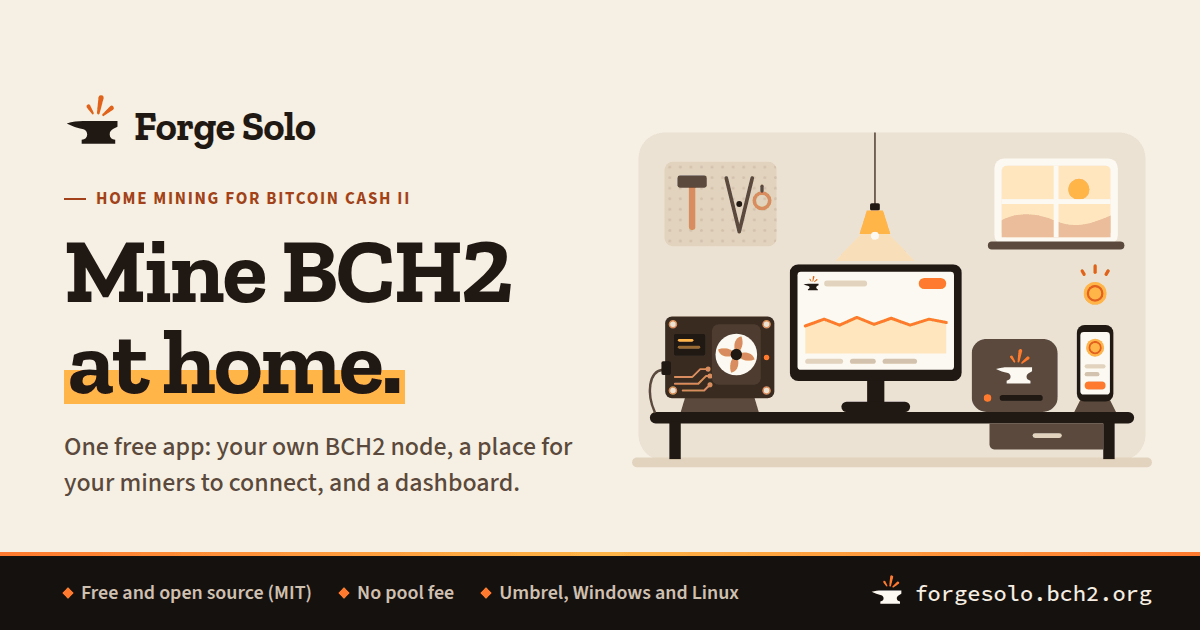
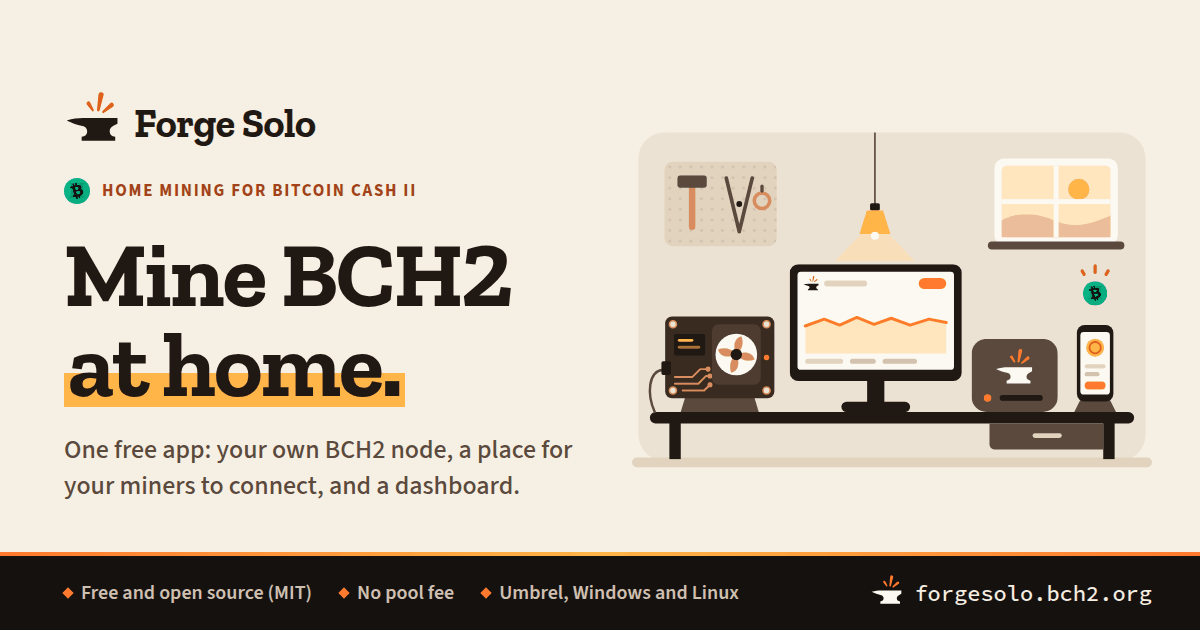
Forge Solo's website: the BCH2 coin
The Bitcoin Cash II coin, site/img/bch2-coin.svg: bch2_logo.svg from
BitcoincashII/BCH2-Graphics at d8f44f8, byte for byte. It stands, small,
where the words mean BCH2: 20 px before the hero's tag, "Home mining for
Bitcoin Cash II", in place of the tag's rule; as the reward arriving at
the phone in the hero drawing and in the "Your BCH2 address" card; 1 em
before "What is Bitcoin Cash II (BCH2)?" on the questions page; and 20 px
before the footer's "Bitcoin Cash II home miner", under the anvil, its
words under the name. The drawings show the file with SVG <image>, so one
file serves every place, under the policy's img-src 'self'.

Beside its words its alt is empty. The hero drawing's description says
the reward arrives as a BCH2 coin (a new key, fs_hero_art_coin), and so
does og:image:alt. img/og.png is made again from the page, with the coin
before the tag and in the desk drawing.

The anvil and sparks stay Forge Solo's mark and the site stays paper and
ember: the coin's greens are its own. The stylesheet is ?v=6 on every
page. README.md records where the coin comes from, BRAND.md where it
stands and why.

diff --git a/site/index.html b/site/index.html
@@ -12,7 +12,7 @@
     <link rel="apple-touch-icon" href="/img/apple-touch-icon.png">
     <link rel="preload" href="/fonts/zilla-slab-700.woff2" as="font" type="font/woff2" crossorigin>
     <link rel="preload" href="/fonts/source-sans-3-wght.woff2" as="font" type="font/woff2" crossorigin>
-    <link rel="stylesheet" href="/css/site.css?v=5">
+    <link rel="stylesheet" href="/css/site.css?v=6">
     <meta property="og:type" content="website">
     <meta property="og:site_name" content="Bitcoin Cash II">
     <meta property="og:title" content="Forge Solo: mine BCH2 at home, on your own node">
@@ -21,7 +21,7 @@
     <meta property="og:image" content="https://forgesolo.bch2.org/img/og.png">
     <meta property="og:image:width" content="1200">
     <meta property="og:image:height" content="630">
-    <meta property="og:image:alt" content="Forge Solo: mine BCH2 at home. A drawing of a desk with a small miner, a computer running Forge Solo and a phone. Umbrel, Windows and Linux.">
+    <meta property="og:image:alt" content="Forge Solo: mine BCH2 at home. A drawing of a desk with a small miner, a computer running Forge Solo and a phone, where a BCH2 coin arrives. Umbrel, Windows and Linux.">
     <meta name="twitter:card" content="summary_large_image">
     <meta name="twitter:site" content="@BitcoincashII">
     <meta name="twitter:title" content="Forge Solo: mine BCH2 at home, on your own node">
@@ -145,7 +145,7 @@
         <section class="hero" aria-labelledby="hero-title">
             <div class="wrap hero-grid">
                 <div class="hero-copy">
-                    <p class="tag" data-i18n="fs_hero_tag">Home mining for Bitcoin Cash II</p>
+                    <p class="tag tag-coin"><img class="coin" src="/img/bch2-coin.svg" width="20" height="20" alt=""><span data-i18n="fs_hero_tag">Home mining for Bitcoin Cash II</span></p>
                     <h1 id="hero-title" data-i18n="fs_hero_headline">Mine BCH2 <span class="hl">at&nbsp;home.</span></h1>
                     <p class="lede" data-i18n="fs_hero_summary">Forge Solo is one free app for mining Bitcoin Cash II (BCH2): your own <a class="term" href="/faq/#glossary-node">BCH2 node</a>, a place for your miners to connect, and a dashboard that shows how it’s going.</p>
                     <div class="cta">
@@ -162,7 +162,7 @@
                 <figure class="hero-art">
                     <div class="art-frame">
                     <svg viewBox="0 0 640 430" role="img" aria-labelledby="hero-art-title" focusable="false">
-                        <title id="hero-art-title" data-i18n="fs_hero_art">A desk with a small miner such as a Bitaxe (1), a computer that stays on, running Forge Solo with its dashboard on screen (2), and a phone with your wallet, where a reward arrives (3).</title>
+                        <title id="hero-art-title" data-i18n="fs_hero_art_coin">A desk with a small miner such as a Bitaxe (1), a computer that stays on, running Forge Solo with its dashboard on screen (2), and a phone with your wallet, where a reward arrives as a BCH2 coin (3).</title>
                         <defs>
                             <pattern id="peg" width="13" height="13" patternUnits="userSpaceOnUse" x="40" y="44"><circle class="f-rule" cx="6.5" cy="6.5" r="1.9"/></pattern>
                         </defs>
@@ -207,7 +207,7 @@
                             <rect class="f-emberdeep" x="568" y="170" width="4" height="12" rx="2"/>
                             <rect class="f-emberdeep" x="553" y="176" width="4" height="9" rx="2" transform="rotate(-30 555 180)"/>
                             <rect class="f-emberdeep" x="583" y="176" width="4" height="9" rx="2" transform="rotate(30 585 180)"/>
-                            <use href="#coin" x="555" y="191" width="30" height="30"/>
+                            <image href="/img/bch2-coin.svg" x="555" y="191" width="30" height="30"/>
                         </g>
                     </svg>
                     <span class="pin pin-1" aria-hidden="true"></span>
@@ -270,7 +270,7 @@
                                     <rect class="f-emberdeep" x="70" y="4" width="4" height="10" rx="2"/>
                                     <rect class="f-emberdeep" x="57" y="9" width="4" height="8" rx="2" transform="rotate(-30 59 13)"/>
                                     <rect class="f-emberdeep" x="83" y="9" width="4" height="8" rx="2" transform="rotate(30 85 13)"/>
-                                    <use href="#coin" x="59" y="20" width="26" height="26"/>
+                                    <image href="/img/bch2-coin.svg" x="59" y="20" width="26" height="26"/>
                                 </g>
                                 <use href="#phone" x="44" y="50" width="44" height="78"/>
                                 <!-- an address tag, tied to the wallet -->
@@ -562,7 +562,7 @@
                     <svg class="brand-mark" viewBox="0 0 64 64" aria-hidden="true" focusable="false"><use href="#mark" class="mark-on-dark"/></svg>
                     <span class="brand-name" data-i18n="fs_brand">Forge Solo</span>
                 </a>
-                <p class="foot-sub" data-i18n="fs_brand_sub">Bitcoin Cash II home miner</p>
+                <p class="foot-sub foot-coin"><img class="coin" src="/img/bch2-coin.svg" width="20" height="20" alt=""><span data-i18n="fs_brand_sub">Bitcoin Cash II home miner</span></p>
             </div>
             <div class="foot-text">
                 <p data-i18n="fs_footer_license">Forge Solo is free and open source, under the <a href="https://github.com/BitcoincashII/forge-solo/blob/main/LICENSE">MIT license</a>. <a href="https://github.com/BitcoincashII/forge-solo">Source on GitHub</a>.</p>

diff --git a/site/faq/index.html b/site/faq/index.html
@@ -12,7 +12,7 @@
     <link rel="apple-touch-icon" href="/img/apple-touch-icon.png">
     <link rel="preload" href="/fonts/zilla-slab-700.woff2" as="font" type="font/woff2" crossorigin>
     <link rel="preload" href="/fonts/source-sans-3-wght.woff2" as="font" type="font/woff2" crossorigin>
-    <link rel="stylesheet" href="/css/site.css?v=5">
+    <link rel="stylesheet" href="/css/site.css?v=6">
     <meta property="og:type" content="website">
     <meta property="og:site_name" content="Bitcoin Cash II">
     <meta property="og:title" content="Forge Solo: questions and words for new miners">
@@ -21,7 +21,7 @@
     <meta property="og:image" content="https://forgesolo.bch2.org/img/og.png">
     <meta property="og:image:width" content="1200">
     <meta property="og:image:height" content="630">
-    <meta property="og:image:alt" content="Forge Solo: mine BCH2 at home. A drawing of a desk with a small miner, a computer running Forge Solo and a phone. Umbrel, Windows and Linux.">
+    <meta property="og:image:alt" content="Forge Solo: mine BCH2 at home. A drawing of a desk with a small miner, a computer running Forge Solo and a phone, where a BCH2 coin arrives. Umbrel, Windows and Linux.">
     <meta name="twitter:card" content="summary_large_image">
     <meta name="twitter:site" content="@BitcoincashII">
     <meta name="twitter:title" content="Forge Solo: questions and words for new miners">
@@ -94,7 +94,7 @@
                     <h2 id="questions-title" class="part-title" data-i18n="fs_faq_questions">Questions</h2>
 
                     <div class="qa" id="what-is-bch2">
-                        <h3 data-i18n="fs_faq_what_is_bch2_q">What is Bitcoin Cash II (BCH2)?</h3>
+                        <h3 class="qa-coin"><img class="coin" src="/img/bch2-coin.svg" width="30" height="30" alt=""><span data-i18n="fs_faq_what_is_bch2_q">What is Bitcoin Cash II (BCH2)?</span></h3>
                         <p data-i18n="fs_faq_what_is_bch2_a1">Bitcoin Cash II (BCH2) is a cryptocurrency mined the same way as Bitcoin, with SHA-256 proof of work, so the machines made to mine Bitcoin mine BCH2 too. It follows Bitcoin Cash’s rules.</p>
                         <p class="details" data-i18n="fs_faq_what_is_bch2_more">Details: <a href="https://bch2.org/" translate="no">bch2.org</a></p>
                     </div>
@@ -274,7 +274,7 @@
                     <svg class="brand-mark" viewBox="0 0 64 64" aria-hidden="true" focusable="false"><use href="#mark" class="mark-on-dark"/></svg>
                     <span class="brand-name" data-i18n="fs_brand">Forge Solo</span>
                 </a>
-                <p class="foot-sub" data-i18n="fs_brand_sub">Bitcoin Cash II home miner</p>
+                <p class="foot-sub foot-coin"><img class="coin" src="/img/bch2-coin.svg" width="20" height="20" alt=""><span data-i18n="fs_brand_sub">Bitcoin Cash II home miner</span></p>
             </div>
             <div class="foot-text">
                 <p data-i18n="fs_footer_license">Forge Solo is free and open source, under the <a href="https://github.com/BitcoincashII/forge-solo/blob/main/LICENSE">MIT license</a>. <a href="https://github.com/BitcoincashII/forge-solo">Source on GitHub</a>.</p>

diff --git a/site/css/site.css b/site/css/site.css
@@ -138,6 +138,17 @@ a.term:hover { color: var(--rust-deep); text-decoration-style: solid; }
 .mk-spark { fill: var(--mk-spark, var(--ember-deep)); }
 .mark-on-dark { --mk-anvil: var(--paper-hi); --mk-spark: var(--ember); }
 
+/* the Bitcoin Cash II coin (img/bch2-coin.svg, BCH2's own, as it is: its greens are the coin's, not the
+   page's), small, where the words mean BCH2. Beside them it says nothing more, so its alt is "" */
+.coin { display: block; flex: none; }
+.tag-coin::before { display: none; }
+.tag-coin .coin { width: 20px; height: 20px; }
+.qa-coin { display: flex; align-items: flex-start; gap: .3em; }
+.qa-coin .coin { width: 1em; height: 1em; margin-top: .06em; }
+/* in the footer, under the anvil, its words under the name */
+.foot-coin { display: flex; align-items: center; gap: 18px; }
+.foot-coin .coin { width: 20px; height: 20px; margin-left: 8px; }
+
 .fn-bg { fill: var(--fn-bg, var(--paper-hi)); }
 .fn-blade { fill: var(--fn-blade, var(--copper)); }
 .fn-hub { fill: var(--fn-hub, var(--ink)); }

diff --git a/site/404.html b/site/404.html
@@ -8,7 +8,7 @@
     <meta name="theme-color" content="#f6efe4">
     <meta name="color-scheme" content="light">
     <link rel="icon" type="image/svg+xml" href="/img/favicon.svg">
-    <link rel="stylesheet" href="/css/site.css?v=5">
+    <link rel="stylesheet" href="/css/site.css?v=6">
 </head>
 <body>
     <a class="skip-link" href="#main" data-i18n="fs_skip">Skip to main content</a>

diff --git a/site/BRAND.md b/site/BRAND.md
@@ -28,7 +28,7 @@ the same header and footer; `404.html` answers every other address.
 | `--copper` | `#d98c5f` | drawings: traces, fan blades, the hammer (never text) |
 | `--ember` | `#ff7a2e` | **the primary action** (buttons), sparks, drawing accents |
 | `--ember-deep` | `#e2611c` | the mark's sparks on paper, bullets, the Then plate's top edge |
-| `--amber` | `#ffb547` | highlights: "at home.", the coin, the lamp, the address placeholder on black |
+| `--amber` | `#ffb547` | highlights: "at home.", the drawn coin, the lamp, the address placeholder on black |
 | `--amber-tint` | `#ffe6bf` | warning callouts, the "When you're paid" row |
 | `--soot` / `--ash` / `--ash-2` | `#15110e` / `#f6eee4` / `#cfc1b0` | the footer band and the stratum-address box |
 
@@ -64,8 +64,11 @@ glossary word and a question opened from a link):
 | ink | paper | 15.34:1 | focus ring (non-text) | 3.0, pass |
 | ember-deep | paper | 3.08:1 | the mark's sparks (logo) | exempt |
 | ember | paper | 2.28:1 | ember fills inside drawings | decorative, always beside words |
+| the BCH2 coin's green edge | paper / paper-deep / soot | 2.24 / 1.99 / 7.35:1 | the coin, beside its words or in a described drawing (logo) | exempt |
+| black B | the coin's green | 8.22 to 6.75:1 | the coin's B (logo) | exempt |
 
-Ember is never used for text on paper. Links are always underlined, never colour alone.
+Ember is never used for text on paper, and the coin's greens never for anything but the coin. Links
+are always underlined, never colour alone.
 
 ## Type
 
@@ -113,10 +116,41 @@ anvil's height; never in a circle (that is BCH2's coin badge); the mark itself n
 **Home-screen icon and link preview.** `img/apple-touch-icon.png` (180 x 180, 1.6 KB) is the favicon
 drawn full-bleed on soot with the mark at 75%, centred, because iOS rounds the corners itself.
 `img/og.png` (1200 x 630, 29 KB, 256-colour PNG) is the hero in the paper and ember look: the mark and
-wordmark, the tag, "Mine BCH2 at home." with the amber highlight, the lede's words, the hero desk, and a
-soot strip with the three facts and forgesolo.bch2.org. Both were made from the page itself (the
-drawing parts and the hero straight out of `index.html`), so they match it: a change to the hero
-needs them made again. The head carries the `canonical`, `og:*` and `twitter:*` tags
+wordmark, the tag with the BCH2 coin before it (26 px), "Mine BCH2 at home." with the amber highlight,
+the lede's words, the hero desk with the BCH2 coin arriving at the phone, and a soot strip with the
+three facts and forgesolo.bch2.org. Both were made from the page itself (the drawing parts and the
+hero straight out of `index.html`, and the site's own stylesheet, fonts and images), so they match
+it: a change to the hero needs them made again.
+
+## The BCH2 coin
+
+`img/bch2-coin.svg` is Bitcoin Cash II's own coin: `bch2_logo.svg` from
+[BitcoincashII/BCH2-Graphics](https://github.com/BitcoincashII/BCH2-Graphics) at commit d8f44f8 ("Add
+bch2_logo.svg (vector version of bch2_logo.png: gradient circle, traced II and B)"), byte for byte:
+4,682 B, a `#09b887` to `#09a67a` gradient circle, a `#067355` traced "II" and a black B, with no
+script and nothing loaded from elsewhere. That repository has no licence file; the coin is the BCH2
+project's own mark, so it is used as it is: never recoloured, redrawn, cropped or outlined. Its greens
+are the coin's own colour, not an accent of the site: nothing else on the pages is green, and the
+anvil and sparks stay Forge Solo's logo (which is why the mark is never put in a circle).
+
+It stands only where it means BCH2, and small:
+
+| Where | Size | Description |
+|---|---|---|
+| before the hero's tag, "Home mining for Bitcoin Cash II", in place of the tag's rule | 20 px | `alt=""`: the words beside it say it |
+| the hero drawing: the reward arriving at the phone, under its sparks | 30 of the drawing's 640 units (28 px at 1440, 17 px at 390) | the drawing's description says the reward arrives as a BCH2 coin (`fs_hero_art_coin`) |
+| What you need, "Your BCH2 address": the coin falling to the phone | 26 of the panel's 240 units (28 px at 1440, 19 px at 390) | none: the drawing is decorative beside its heading |
+| the questions page, before "What is Bitcoin Cash II (BCH2)?" | 1 em of the heading (23 to 30 px), centred on its first line; a second line starts under the words | `alt=""` |
+| the footer, before "Bitcoin Cash II home miner" | 20 px, centred under the anvil, the words under "Forge Solo" | `alt=""` |
+| the link preview, `img/og.png` | 26 px before the tag, and in the desk drawing | `og:image:alt` says a BCH2 coin arrives |
+
+The drawn amber coin (`#coin`) stays where a coin means a payment in general: on the phone's own
+screen (the wallet) and at Solo's "Who gets paid", where a block can pay 1175 too. The pages show the
+file itself, with `<img>` and, in the drawings, SVG `<image>`: one file, kept by the browser, which the
+policy's `img-src 'self'` allows, and drawn sharp at any size. At 20 px it reads as a green coin with a
+black B. Its centre is within a pixel of the middle of the capitals beside it in the tag and the
+question, and between the middle of the capitals and of the small letters in the footer (measured at
+1440, 1024, 390 and 320 px). The head carries the `canonical`, `og:*` and `twitter:*` tags
 (summary_large_image, @BitcoincashII) and `apple-touch-icon`.
 
 ## Drawings: one flat style
@@ -128,7 +162,8 @@ stays on, with the anvil), `#monitor` (the Forge Solo dashboard: mark, a level, 
 no numbers; nothing on it rises like earnings), `#phone` (the wallet), `#coin`, `#block` (a block seen
 straight on, like everything else: an amber header band over three lines), `#fan` and the mark. Every
 object is drawn straight on; nothing is isometric. Flat fills from the tokens only, no outlines, no
-gradients, rounded corners, a sand floor line. The desk's drawer hangs from the top and meets the
+gradients, rounded corners, a sand floor line. The one exception is the BCH2 coin, the reward arriving
+at the phone: BCH2's own artwork, as it is (above). The desk's drawer hangs from the top and meets the
 right leg. "Others" in the TIDES window are the same Bitaxe in paper tones. The hero numbers 1, 2,
 3 are HTML pins over the picture (so they stay legible on a phone) and a key under it ("A miner, like a Bitaxe", "A computer that stays on", "Your BCH2
 address") matches the three cards, whose numbers come from the list itself (CSS counters).
@@ -276,7 +311,7 @@ sans, square plates, dashed wires and drawings of a desk with a miner on it.
 
 In `site/`: `index.html`, `faq/index.html`, `404.html`, `css/site.css`, `fonts/` (three WOFF2 files
 and their OFL licences), `img/mark.svg`, `img/favicon.svg`, `img/apple-touch-icon.png`, `img/og.png`,
-and the screenshots `img/forge-solo-settings-how-blocks-pay.webp`,
+`img/bch2-coin.svg` (BCH2's coin, from BCH2-Graphics at d8f44f8), and the screenshots `img/forge-solo-settings-how-blocks-pay.webp`,
 `img/forge-solo-dashboard-tides.webp` and `img/forge-solo-dashboard-solo.webp`, each with its `@2x`
 file. No script;
 everything works under the site's CSP (`default-src 'none'; style-src 'self'; font-src 'self';

diff --git a/site/README.md b/site/README.md
@@ -15,6 +15,7 @@ Static files, served by nginx on the pool box (144.202.73.66).
 | `img/favicon.svg` | the mark on a dark square: the browser tab's icon |
 | `img/mark.svg` | the mark on paper, in the 404 page's header |
 | `img/apple-touch-icon.png`, `img/og.png` | the icon for a phone's home screen, and the picture a link preview shows |
+| `img/bch2-coin.svg` | the Bitcoin Cash II coin, byte for byte `bch2_logo.svg` from [BitcoincashII/BCH2-Graphics](https://github.com/BitcoincashII/BCH2-Graphics) at commit d8f44f8; that repository has no licence file, and the coin is the BCH2 project's own mark, used here as it is (BRAND.md says where) |
 | `img/forge-solo-*.webp` | screenshots of Forge Solo 1.0.15's Settings page and dashboard (Solo and TIDES), each also at twice the size (`@2x`), on the home page, where each links to its `@2x` file |
 | `robots.txt` | lets every crawler in |
 | `deploy.sh` | copies the files above to the box's web root |
@@ -26,7 +27,7 @@ anchors of its headings, rather than repeating them. The Windows and Linux downl
 [the latest release](https://github.com/BitcoincashII/forge-solo/releases/latest), never on the
 site; Umbrel installs Forge Solo from its app store. The pages have no script, and load nothing
 from another site: the nginx server's Content-Security-Policy allows only their own styles, fonts
-and images. They link their files from the site's root (`/css/site.css?v=5`), since nginx serves
+and images. They link their files from the site's root (`/css/site.css?v=6`), since nginx serves
 `404.html` at whatever address was asked for and the questions page is a folder down. A
 screenshot's link opens its `@2x` file on the browser's own image page, whose inline styles the
 policy refuses: Chrome's console says so, and the image still shows, fitted to the window.
